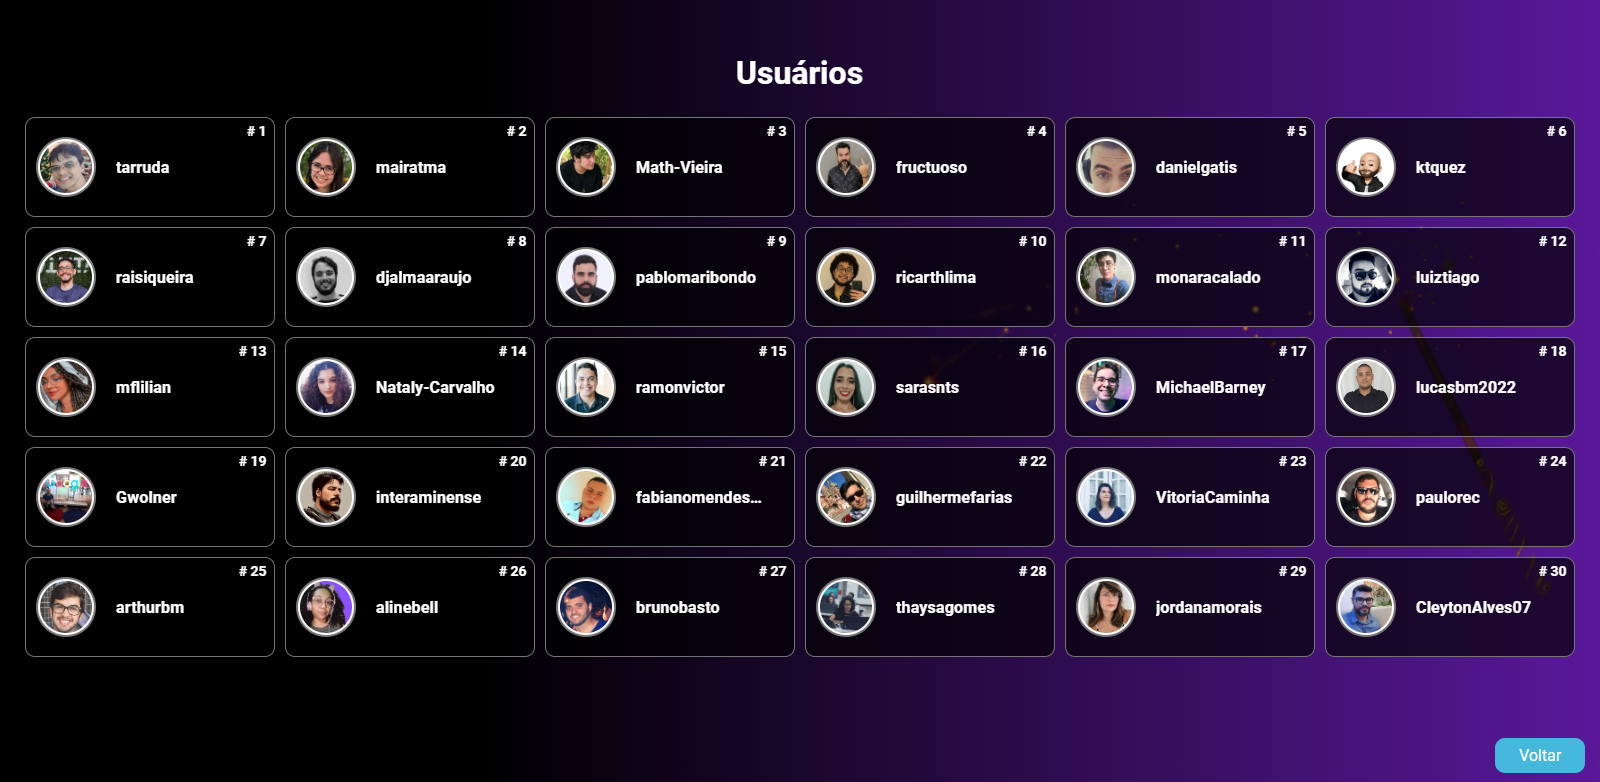
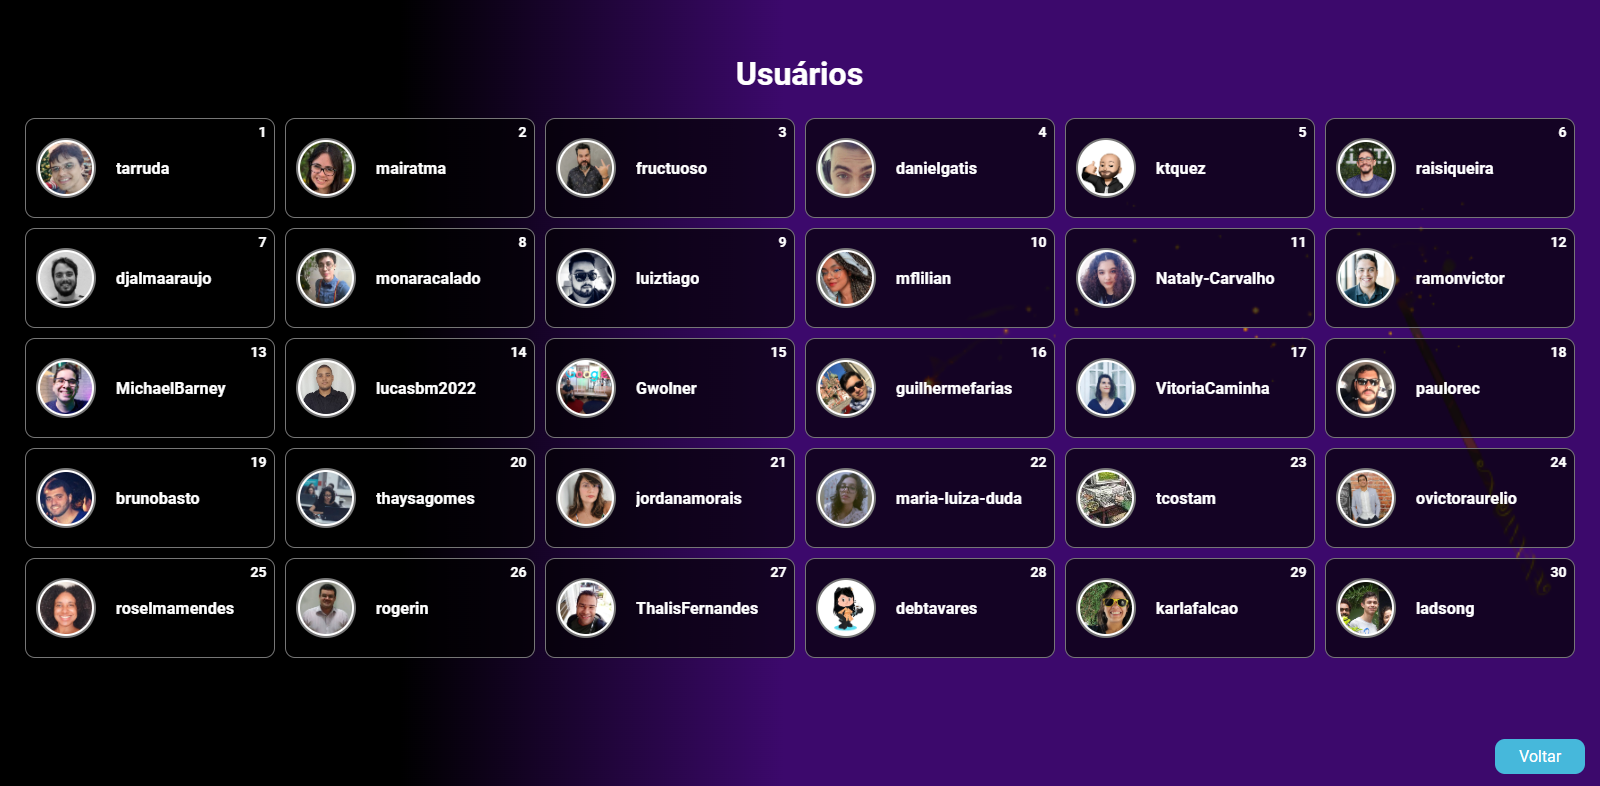
Projeto Concluído (por enquanto)

diff --git a/src/pages/home/style.css b/src/pages/home/style.css
@@ -3,6 +3,7 @@
   flex-direction: column;
   justify-content: flex-start;
   width: 50%;
+  min-width: 450px;
   padding: 35px 0 0 25px;
   background-repeat: no-repeat;
   background-position: bottom 0%;
@@ -21,7 +22,7 @@ img[alt="cat"] {
 
 .instructions {
   padding-left: 5px;
-  width: 600px;
+  max-width: 650px;
 }
 
 .instructions h2 {
@@ -56,6 +57,7 @@ img[alt="cat"] {
   justify-content: center;
   align-items: flex-start;
   width: 50%;
+  min-width: 500px;
   background-repeat: no-repeat;
   background-position: top 50px left 0%;
   background-size: contain;

diff --git a/src/index.css b/src/index.css
@@ -1,5 +1,11 @@
 @import url("./animations/animations.css");
 
+* {
+  margin: 0;
+  padding: 0;
+  box-sizing: border-box;
+}
+
 :root {
   font-family: Inter, system-ui, Avenir, Helvetica, Arial, sans-serif;
   line-height: 1.5;
@@ -14,12 +20,6 @@
   -webkit-text-size-adjust: 100%;
   overflow-x: hidden;
   --toastify-color-info: #000000;
-}
-
-* {
-  margin: 0;
-  padding: 0;
-  box-sizing: border-box;
 }
 
 .container-main {

diff --git a/src/pages/home/index.jsx b/src/pages/home/index.jsx
@@ -25,7 +25,7 @@ function Home({ setUsersList, entranceExit, setEntranceExit }) {
               </span> desejadas.
             </p>
             <p>
-              Encontre os perfis que melhor correspondem a sua busca.
+              Encontre os perfis que melhor <br /> correspondem a sua busca.
             </p>
             <p>
               Lance um <span className='highlighted-word'>Accio</span>!

diff --git a/src/pages/users/index.jsx b/src/pages/users/index.jsx
@@ -62,7 +62,7 @@ function Users({ usersList, setUsersList, entranceExit, setEntranceExit }) {
                   </h3>
 
                 </div>
-                <span>{`# ${++count}`}</span>
+                <span>{`${++count}`}</span>
               </div>
             </a>
           ))}

diff --git a/src/pages/users/style.css b/src/pages/users/style.css
@@ -1,5 +1,5 @@
 .container-users {
-    padding-top: 50px;
+    padding: 50px 0 25px 0;
     flex-direction: column;
     align-items: center;
     justify-content: flex-start;

diff --git a/src/components/FormAccio/style.css b/src/components/FormAccio/style.css
@@ -45,7 +45,7 @@ form {
   display: flex;
   align-items: center;
   justify-content: space-between;
-  width: 50%;
+  width: 60%;
   padding: 13px;
 }
 

diff --git a/README.md b/README.md
@@ -1,1 +1,61 @@
 <h1>Accio Users GitHub</h1>
+
+<h2 style="font-family: sans-serif;">Sobre o projeto:</h2>
+
+<p style="text-align: justify;">
+    O objetivo desse projeto foi desenvolver uma maneira mais <strong style="color: blue;">fácil</strong> de <strong style="color: blue;">pesquisar usuários no GitHub</strong>. Um localizador de usuários com perfis que melhor correspondam a localidade e tipo ou tipos de linguagem de programação escolhidos nos parâmetro de busca. Tornando a experiência de quem busca usuários no GitHub mais <strong style="color: blue;">rápida</strong> e <strong style="color: blue;">prática.</strong>
+</p>
+
+<h2 style="font-family: sans-serif;">Sobre o Accio Users GitHub:</h2>
+
+<p style="text-align: justify;">
+  A aplicação é bem simples e intuitiva de usar. Com apenas alguns cliques é possível escolhe a <strong style="color: blue;">localidade</strong> (UF e cidade) e uma ou mais <strong style="color: blue;">linguagens de programação</strong> desejadas.
+</p>
+
+<p style="text-align: justify;">
+  Para tal funcionamento foram utilizadas duas API's. A <strong style="color: blue;">API do IBGE</strong> com dados de estados e cidades correspondentes e a <strong style="color: blue;">API do GitHub</strong>  com informações sobre seus usuários.
+</p>
+
+<h2 style="font-family: sans-serif;">Sobre a ordem dos resultados:</h2>
+
+<p style="text-align: justify;">
+  Ao informar-mos qual localidade e linguagem de programação queremos e clicarmos no botão <strong style="color: blue;">Accio</strong>, uma requisição será enviada para a API do GitHub que por padrão devolverá os resultados em ordem decrescente começando pela melhores correspondências de acordo com os parâmetros de busca selecionados. Em outras palavras 
+  <strong style="color: blue;">do Maior Match para o Menor Match</strong>.
+</p>
+
+
+<h2 style="font-family: sans-serif;">Linguagens e bibliotecas utilizadas:</h2>
+
+<ul>
+    <li>React</li>
+    <li>HTML(JSX)</li>
+    <li>CSS</li>
+    <li>JavaScript</li>
+    <li>React Router Dom</li>
+    <li>React Toastify</li>
+    <li>API IBGE</li>
+    <li>API GitHub</li>
+</ul>
+
+<h2 style="font-family: sans-serif;">Layout (não responsívo para mobile):</h2>
+
+<h4>Tela inicial</h4>
+<img src="./src/images/home-screen.png" alt="Escolhendo Palpites">
+
+<h4>Escolhendo Localidade</h4>
+<img src="./src/images/choosing-locale-toast.png" alt="Escolhendo Palpites">
+
+<img src="./src/images/choosing-locale.png" alt="Escolhendo Palpites">
+
+<h4>Escolhendo Linguagem</h4>
+<img src="./src/images/choosing-languages.png" alt="Escolhendo Palpites">
+
+<h4>Usuários</h4>
+<img src="./src/images/users.png" alt="Escolhendo Palpites">
+
+<h4>Sem resultados</h4>
+<img src="./src/images/no-results.png" alt="Escolhendo Palpites">
+
+<p style="text-align: justify;">
+ <b><strong style="color: blue;">OBS</strong>.: Ainda não está responsívo em versões mobiles! Novas atualizações em breve</b>
+</p>
